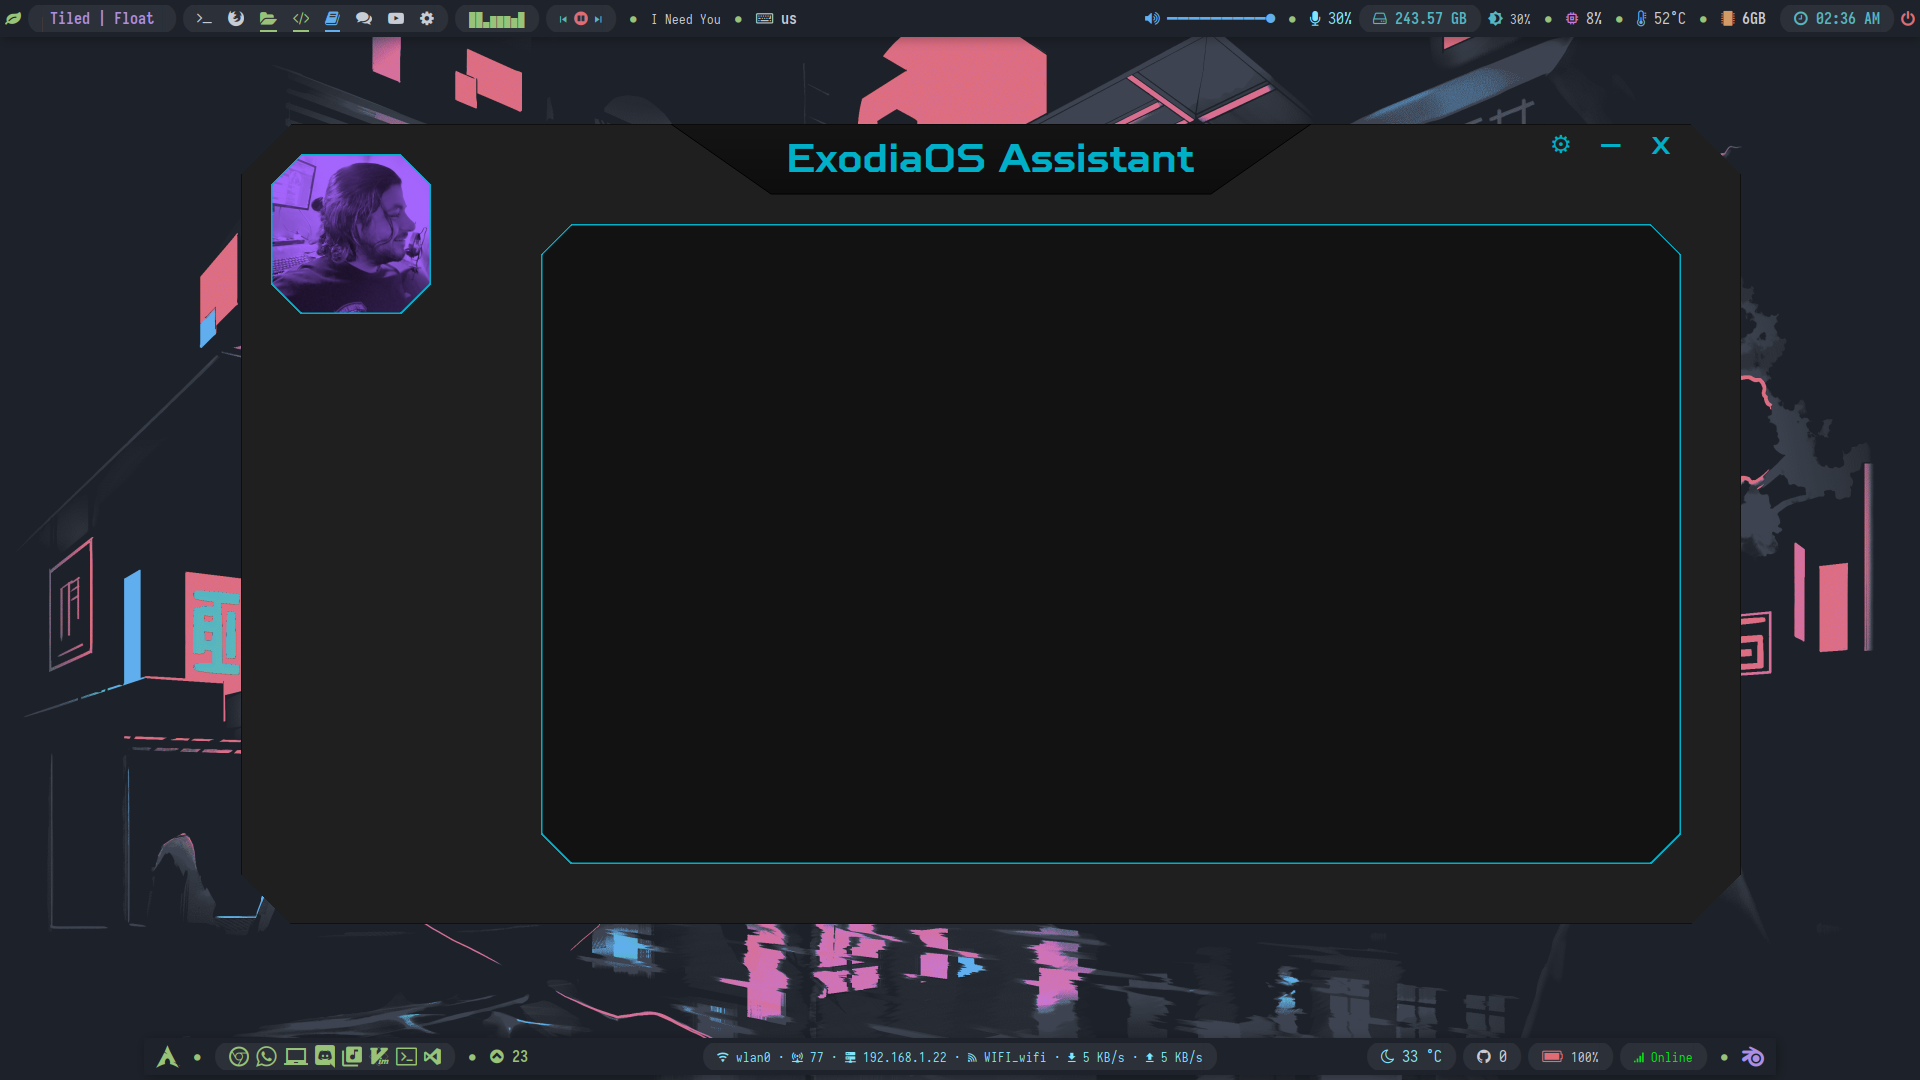
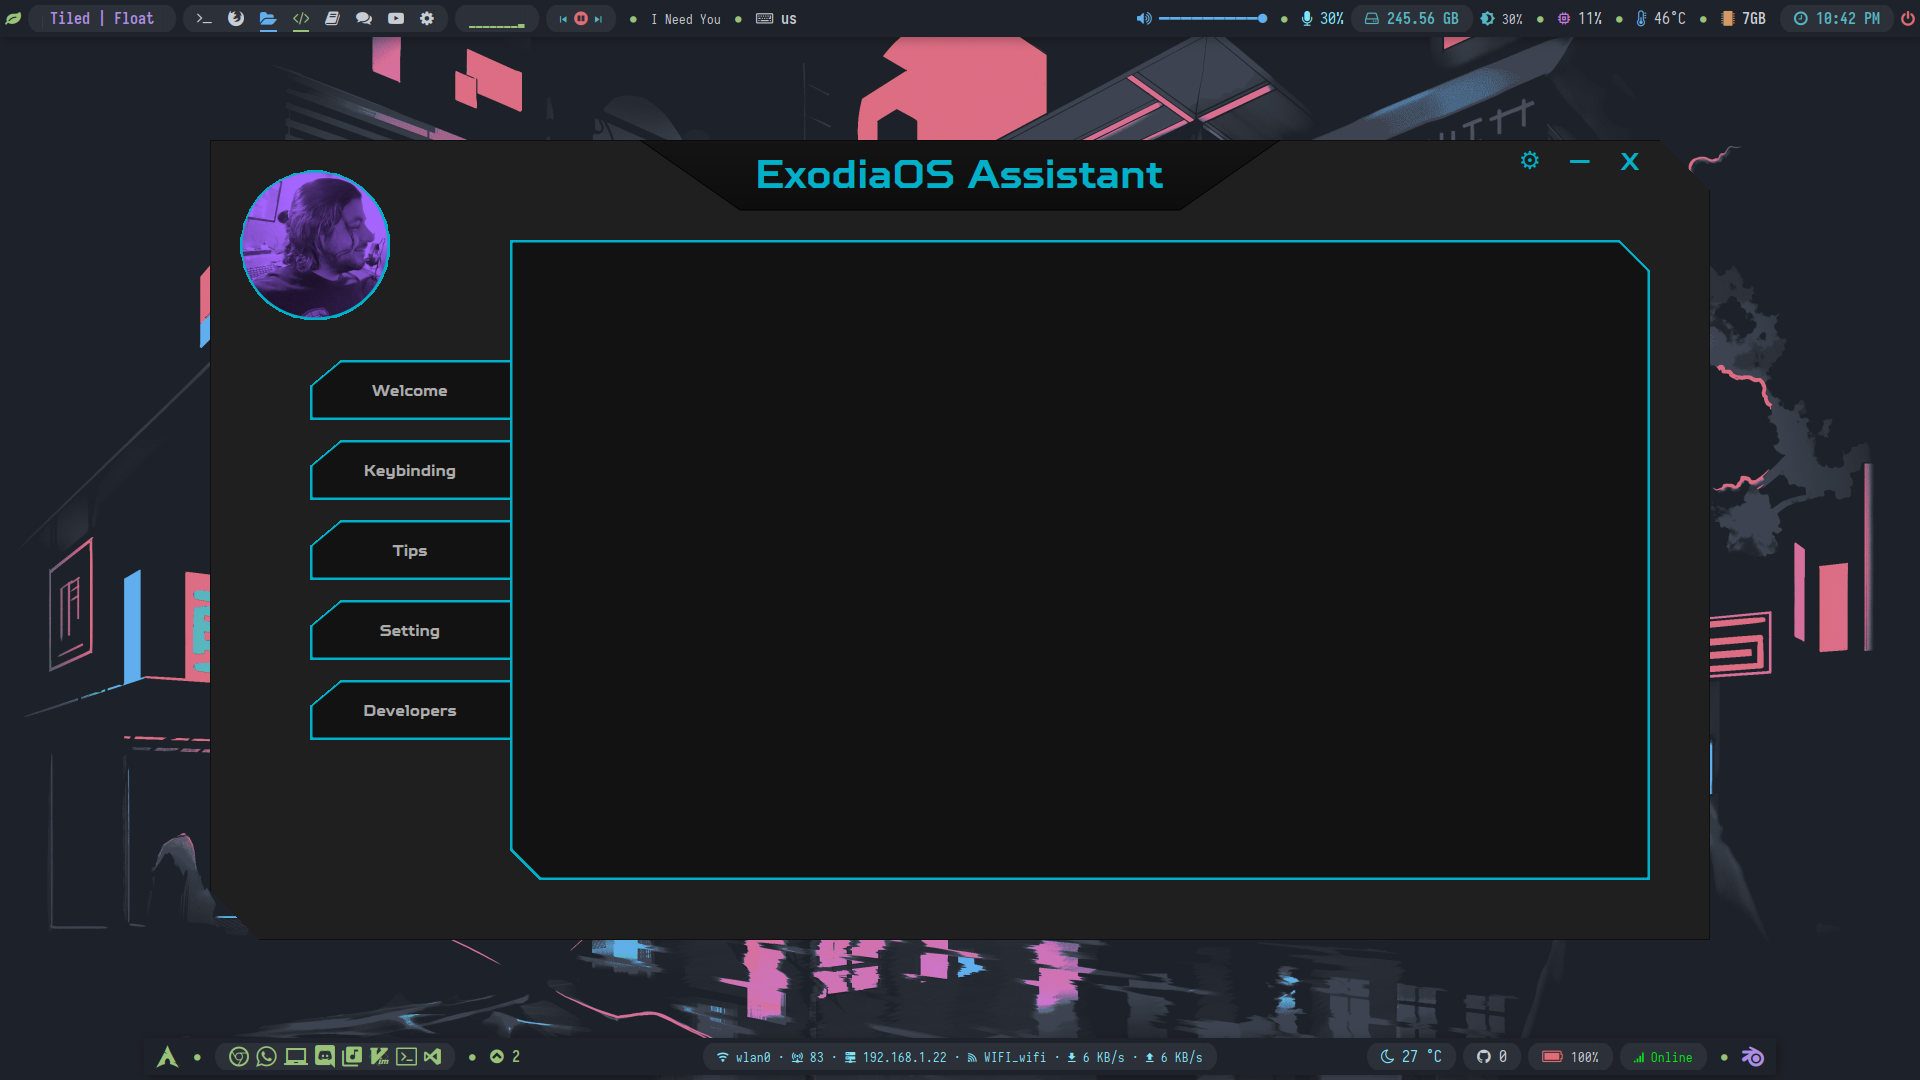
[1;36m==> modified : exodia-assistant/files/exodia-assistant/frontend/__pycache__/custom_button.cpython-312.pyc [0m     [1;36m==> modified : exodia-assistant/files/exodia-assistant/frontend/__pycache__/internal_window.cpython-312.pyc [0m     [1;36m==> modified : exodia-assistant/files/exodia-assista

diff --git a/exodia-assistant/files/exodia-assistant/frontend/custom_button.py b/exodia-assistant/files/exodia-assistant/frontend/custom_button.py
@@ -14,7 +14,7 @@ from PyQt5.QtGui import QPainter, QColor, QRegion, QPolygon, QPen, QFont, QFontD
 from PyQt5.QtWidgets import QApplication, QWidget, QPushButton, QVBoxLayout
 
 class CustomButton(QPushButton):
-    def __init__(self, text, points, x, y, width, height, color="#121212", border_color="#00B0C8", border_thickness=3, parent=None):
+    def __init__(self, text, points, x, y, width, height, color="#121212", border_color="#00B0C8", border_thickness=5, parent=None):
         super().__init__(text, parent)
         self.predator_font = None
         self.setFixedSize(200, 100)  # Set the fixed size for the button
@@ -44,8 +44,16 @@ class CustomButton(QPushButton):
         painter = QPainter(self)
         painter.setRenderHint(QPainter.Antialiasing)
 
+        # Determine the background color and text color based on the button state
+        if self.parent().currently_pressed_button == self:
+            background_color = QColor("#00B0C8")
+            text_color = QColor("white")
+        else:
+            background_color = QColor(self.color)
+            text_color = QColor("#acacac")
+
         # Draw the background of the button
-        painter.setBrush(QColor(self.color))
+        painter.setBrush(background_color)
         painter.setPen(Qt.NoPen)
         painter.drawPolygon(self.polygon)
 
@@ -56,11 +64,16 @@ class CustomButton(QPushButton):
         painter.drawPolygon(self.polygon)
 
         # Draw the text with the Predator font if available
-        pen = QPen(QColor("#acacac"))
+        pen = QPen(text_color)
         painter.setPen(pen)
         if self.predator_font:
             painter.setFont(self.predator_font)
         painter.drawText(self.rect(), Qt.AlignCenter, self.text())
+
+    def mousePressEvent(self, event):
+        super().mousePressEvent(event)
+        # Inform the panel that this button is pressed
+        self.parent().setCurrentButton(self)
 
 class CustomButtonPanel(QWidget):
     def __init__(self, parent=None):
@@ -68,6 +81,9 @@ class CustomButtonPanel(QWidget):
         self.setFixedSize(200, 400)  # Adjust the size of the main window as needed
         self.setGeometry(100, 200, 400, 400)
         self.setAttribute(Qt.WA_TranslucentBackground) # Make the background transparent
+
+        # Initialize the currently pressed button
+        self.currently_pressed_button = None
 
         # Set up a layout for the panel with zero spacing
         layout = QVBoxLayout()
@@ -81,8 +97,8 @@ class CustomButtonPanel(QWidget):
             {
                 'text': 'Welcome',
                 'points': [
-                    QPoint(200, 20),
-                    QPoint(200, 80),
+                    QPoint(300, 20),
+                    QPoint(300, 80),
                     QPoint(0, 80),
                     QPoint(0, 45),
                     QPoint(30, 20)
@@ -93,8 +109,8 @@ class CustomButtonPanel(QWidget):
             {
                 'text': 'Keybinding',
                 'points': [
-                    QPoint(200, 20),
-                    QPoint(200, 80),
+                    QPoint(300, 20),
+                    QPoint(300, 80),
                     QPoint(0, 80),
                     QPoint(0, 45),
                     QPoint(30, 20)
@@ -105,8 +121,8 @@ class CustomButtonPanel(QWidget):
             {
                 'text': 'Tips',
                 'points': [
-                    QPoint(200, 20),
-                    QPoint(200, 80),
+                    QPoint(300, 20),
+                    QPoint(300, 80),
                     QPoint(0, 80),
                     QPoint(0, 45),
                     QPoint(30, 20)
@@ -117,8 +133,8 @@ class CustomButtonPanel(QWidget):
             {
                 'text': 'Setting',
                 'points': [
-                    QPoint(200, 20),
-                    QPoint(200, 80),
+                    QPoint(300, 20),
+                    QPoint(300, 80),
                     QPoint(0, 80),
                     QPoint(0, 45),
                     QPoint(30, 20)
@@ -129,8 +145,8 @@ class CustomButtonPanel(QWidget):
             {
                 'text': 'Developers',
                 'points': [
-                    QPoint(200, 20),
-                    QPoint(200, 80),
+                    QPoint(300, 20),
+                    QPoint(300, 80),
                     QPoint(0, 80),
                     QPoint(0, 45),
                     QPoint(30, 20)
@@ -152,10 +168,9 @@ class CustomButtonPanel(QWidget):
             # Add the button to the layout
             self.layout().addWidget(button)
 
+    def setCurrentButton(self, button):
+        if self.currently_pressed_button:
+            self.currently_pressed_button.update()
+        self.currently_pressed_button = button
+        self.currently_pressed_button.update()
 
-# Main application setup
-if __name__ == "__main__":
-    app = QApplication(sys.argv)
-    window = CustomButtonPanel()
-    window.show()
-    sys.exit(app.exec_())

diff --git a/exodia-assistant/files/exodia-assistant/frontend/internal_window.py b/exodia-assistant/files/exodia-assistant/frontend/internal_window.py
@@ -1,6 +1,15 @@
+#####################################
+#                                   #
+#  @author      : 00xWolf           #
+#    GitHub    : @mmsaeed509       #
+#    Developer : Mahmoud Mohamed   #
+#  﫥  Copyright : Exodia OS         #
+#                                   #
+#####################################
+
 from PyQt5.QtCore import Qt, QPoint
 from PyQt5.QtGui import QPainter, QColor, QBrush, QRegion, QPolygon, QPen  # Corrected import for QPolygon
-from PyQt5.QtWidgets import QWidget
+from PyQt5.QtWidgets import QWidget, QLabel
 
 class InternalWindow(QWidget):
     def __init__(self, parent=None):
@@ -10,6 +19,10 @@ class InternalWindow(QWidget):
         self.setGeometry(300, 100, 1140, 640)
         self.setAttribute(Qt.WA_TranslucentBackground)  # Make the background transparent
         self.polygon = self.createCustomMask()  # Store the polygon used for the mask
+        self.content_label = QLabel(self)
+        self.content_label.setGeometry(self.rect())
+        self.content_label.setStyleSheet("color: white; font-size: 20px; padding: 10px;")
+
 
     def createCustomMask(self):
         # Define points for an 8-sided polygon
@@ -38,6 +51,9 @@ class InternalWindow(QWidget):
         painter.drawPolygon(self.polygon)  # Draw the filled polygon
 
         # Draw the border with the specified color
-        pen = QPen(QColor("#00B0C8"), 3)  # Create a pen with the desired color and border width
+        pen = QPen(QColor("#00B0C8"), 5)  # Create a pen with the desired color and border width
         painter.setPen(pen)
         painter.drawPolygon(self.polygon)  # Draw the polygon border
+
+    def updateContent(self, text):
+        self.content_label.setText(text)
